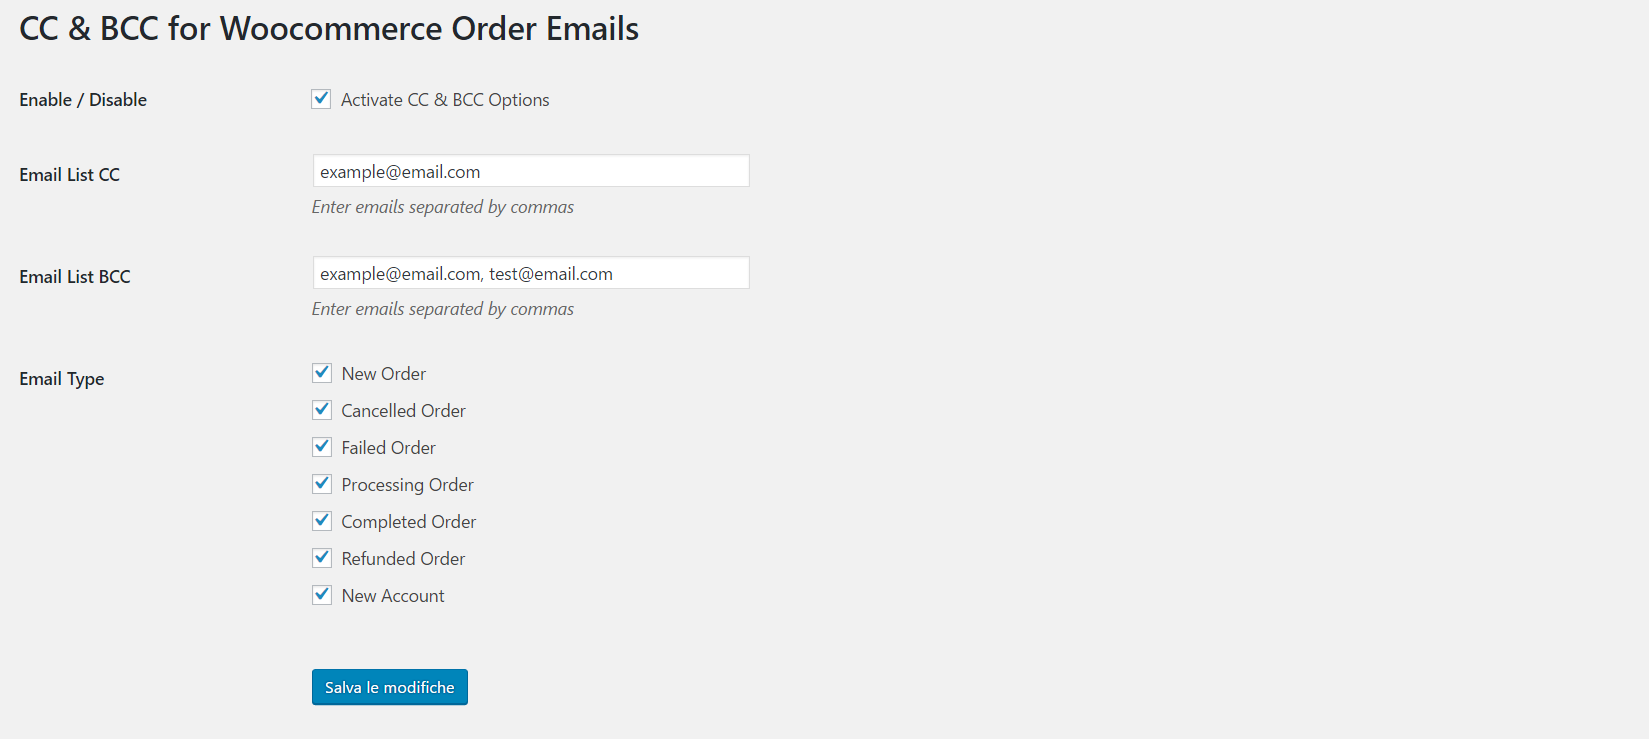
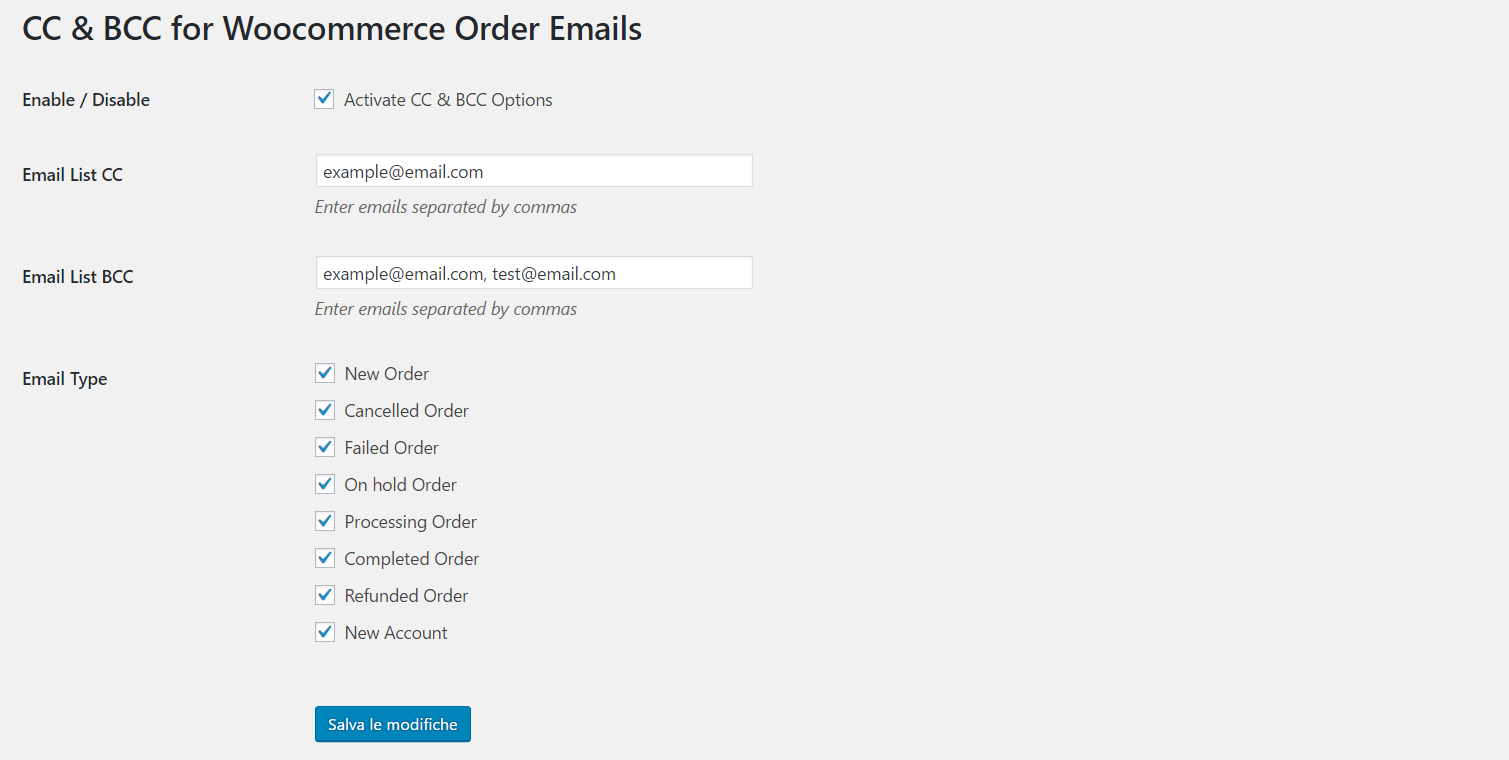
versione 1.3.0

diff --git a/admin/partials/dc-cc-bcc-woe-admin-display.php b/admin/partials/dc-cc-bcc-woe-admin-display.php
@@ -6,7 +6,7 @@
  * This file is used to markup the admin-facing aspects of the plugin.
  *
  * @link       https://github.com/dcurasi
- * @since      1.2.0
+ * @since      1.3.0
  *
  * @package    Dc_Cc_Bcc_Woe
  * @subpackage Dc_Cc_Bcc_Woe/admin/partials
@@ -68,6 +68,11 @@
                           <label for="dc_wech_failed_order">
                             <input type="checkbox" id="dc_wech_failed_order" value="1" <?php checked(get_option('dc_wech_failed_order'), 1); ?> name="dc_wech_failed_order">
                             Failed Order
+                          </label>
+                          <br>
+                          <label for="dc_wech_customer_on_hold">
+                            <input type="checkbox" id="dc_wech_customer_on_hold" value="1" <?php checked(get_option('dc_wech_customer_on_hold'), 1); ?> name="dc_wech_customer_on_hold">
+                            On hold Order
                           </label>
                           <br>
                           <label for="dc_wech_processing_order">

diff --git a/admin/class-dc-cc-bcc-woe-admin.php b/admin/class-dc-cc-bcc-woe-admin.php
@@ -120,7 +120,7 @@ class Dc_Cc_Bcc_Woe_Admin {
 	/**
 	 * Creates our settings sections with fields etc.
 	 *
-	 * @since    1.2.0
+	 * @since    1.3.0
 	 */
 	public function settings_api_init(){
 		register_setting('dc_wech_options_group', 'dc_wech_activate');
@@ -133,6 +133,7 @@ class Dc_Cc_Bcc_Woe_Admin {
 	    register_setting('dc_wech_options_group', 'dc_wech_completed_order');
 	    register_setting('dc_wech_options_group', 'dc_wech_refunded_order');
 	    register_setting('dc_wech_options_group', 'dc_wech_customer_new_account');
+	    register_setting('dc_wech_options_group', 'dc_wech_customer_on_hold');
 	}
 
 	public function error_notice() {

diff --git a/dc-cc-bcc-woe.php b/dc-cc-bcc-woe.php
@@ -9,14 +9,14 @@
  * that starts the plugin.
  *
  * @link              https://github.com/dcurasi
- * @since             1.2.0
+ * @since             1.3.0
  * @package           Dc_Cc_Bcc_Woe
  *
  * @wordpress-plugin
  * Plugin Name:       CC & BCC for Woocommerce Order Emails
  * Plugin URI:        https://github.com/dcurasi/dc-cc-bcc-woe
  * Description:       It makes it possible to insert CC and BCC in Wooommerce emails.
- * Version:           1.2.0
+ * Version:           1.3.0
  * Author:            Dario Curasì
  * Author URI:        https://github.com/dcurasi
  * License:           GPL-2.0+

diff --git a/includes/class-dc-cc-bcc-woe-activator.php b/includes/class-dc-cc-bcc-woe-activator.php
@@ -27,7 +27,7 @@ class Dc_Cc_Bcc_Woe_Activator {
 	 *
 	 * Long Description.
 	 *
-	 * @since    1.2.0
+	 * @since    1.3.0
 	 */
 	public static function activate() {
 		add_option('dc_wech_activate', 1);
@@ -40,6 +40,7 @@ class Dc_Cc_Bcc_Woe_Activator {
 	    add_option('dc_wech_completed_order', 1);
 	    add_option('dc_wech_refunded_order', 1);
 	    add_option('dc_wech_customer_new_account', 1);
+	    add_option('dc_wech_customer_on_hold', 1);
 	}
 
 }

diff --git a/includes/class-dc-cc-bcc-woe.php b/includes/class-dc-cc-bcc-woe.php
@@ -64,12 +64,12 @@ class Dc_Cc_Bcc_Woe {
 	 * Load the dependencies, define the locale, and set the hooks for the admin area and
 	 * the public-facing side of the site.
 	 *
-	 * @since    1.2.0
+	 * @since    1.3.0
 	 */
 	public function __construct() {
 
 		$this->plugin_name = 'dc-cc-bcc-woe';
-		$this->version = '1.2.0';
+		$this->version = '1.3.0';
 
 		$this->load_dependencies();
 		$this->set_locale();

diff --git a/public/class-dc-cc-bcc-woe-public.php b/public/class-dc-cc-bcc-woe-public.php
@@ -150,6 +150,13 @@ class Dc_Cc_Bcc_Woe_Public {
 		    }
 		}
 
+		if(get_option('dc_wech_customer_on_hold')) {
+		    if ($object == 'customer_on_hold_order') {
+		    	$headers .= 'CC: ' . get_option('dc_wech_email_list_cc') . "\r\n";
+		        $headers .= 'BCC: ' . get_option('dc_wech_email_list_bcc') . "\r\n";
+		    }
+		}
+
 	    return $headers;
 	}
 

diff --git a/includes/class-dc-cc-bcc-woe-deactivator.php b/includes/class-dc-cc-bcc-woe-deactivator.php
@@ -40,6 +40,7 @@ class Dc_Cc_Bcc_Woe_Deactivator {
 	    delete_option('dc_wech_completed_order');
 	    delete_option('dc_wech_refunded_order');
 	    delete_option('dc_wech_customer_new_account');
+	    delete_option('dc_wech_customer_on_hold');
 	}
 
 }
